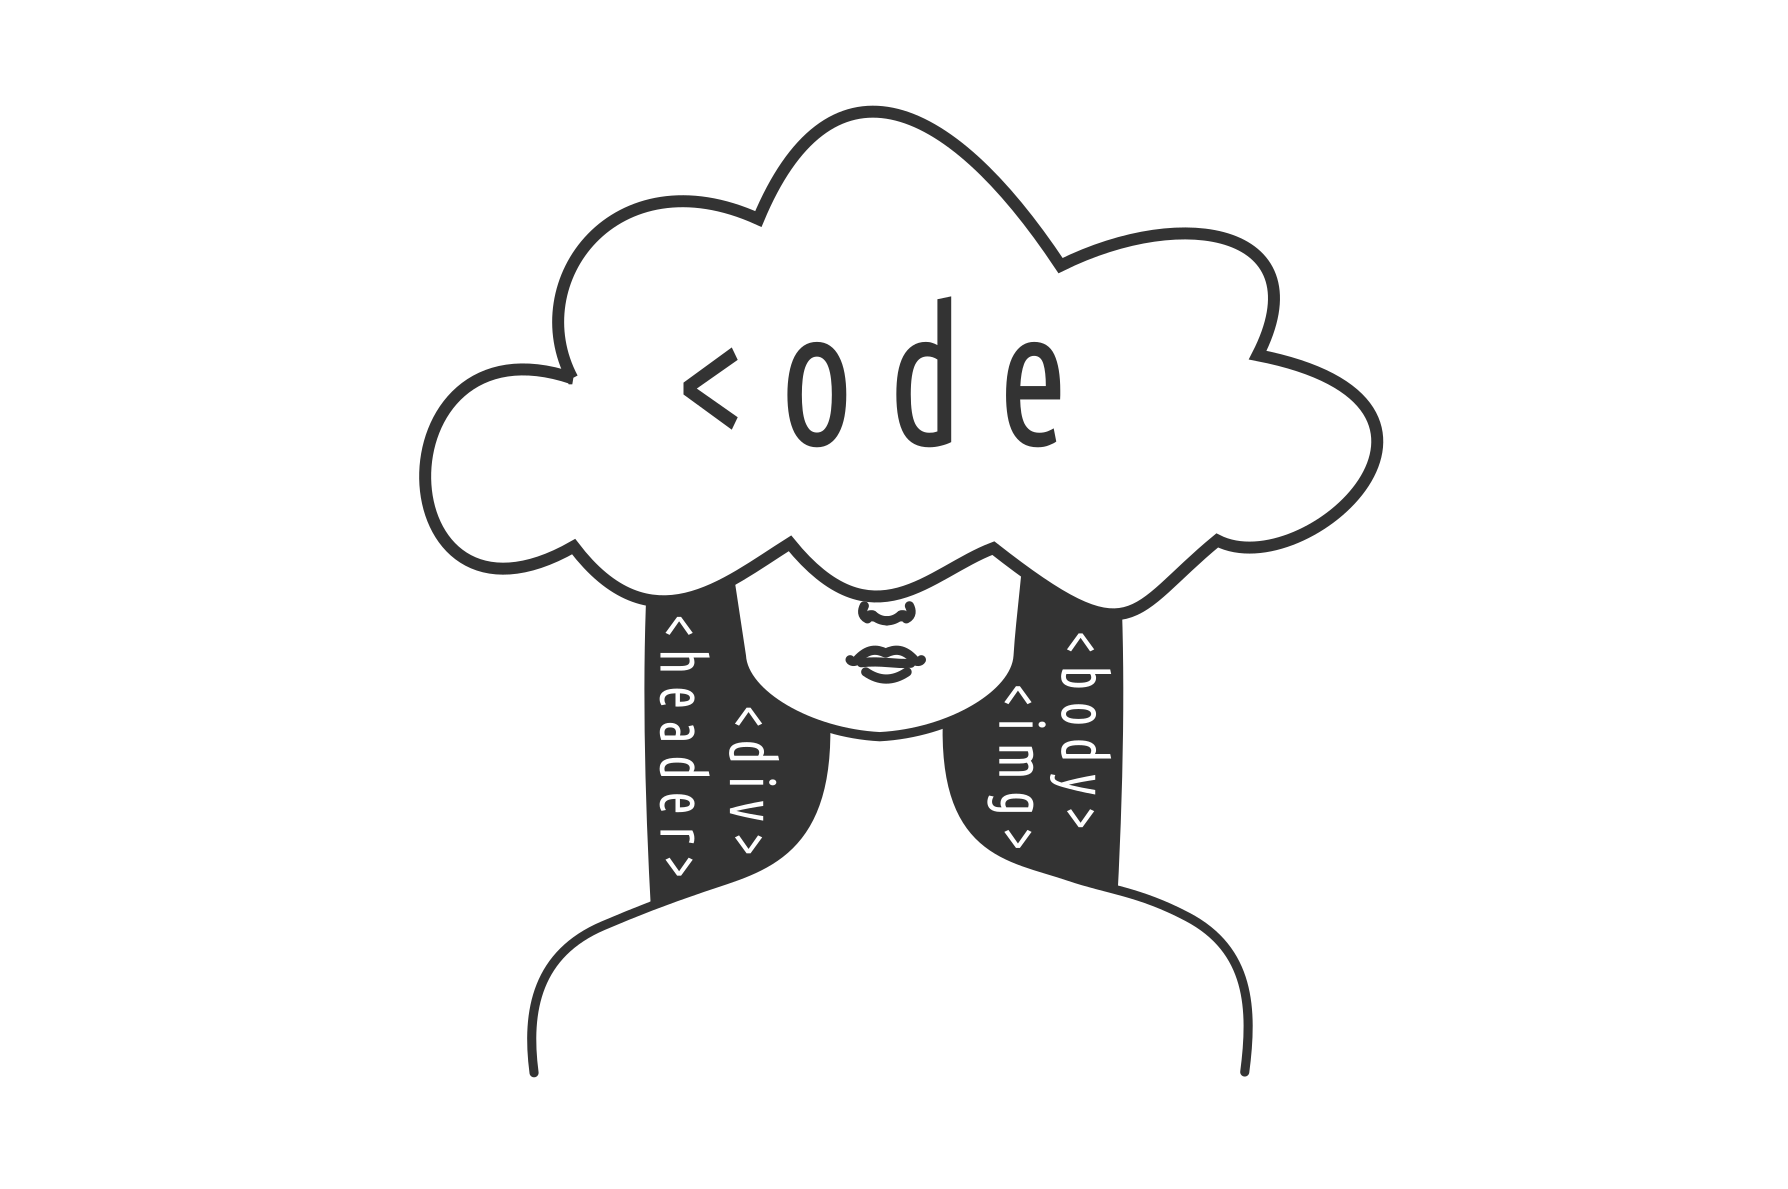
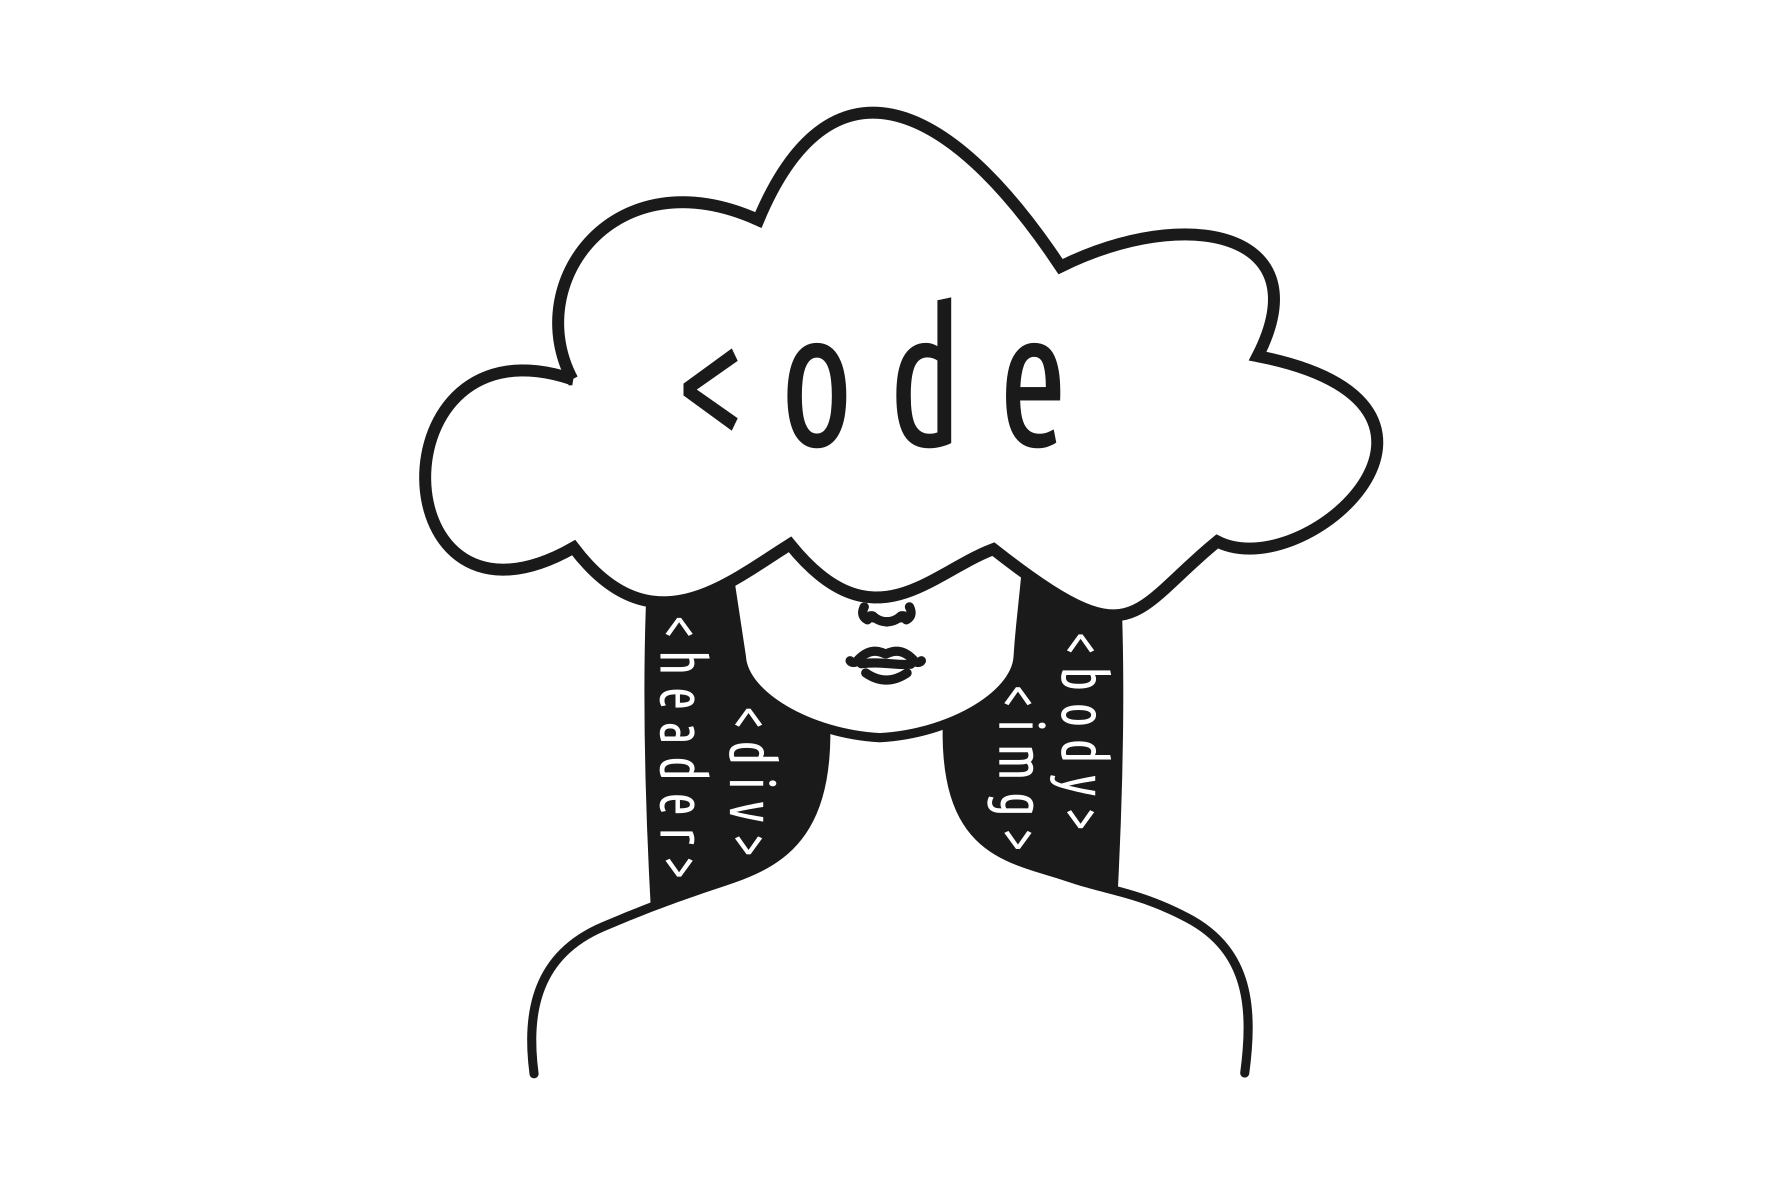
blog post

diff --git a/post1.html b/post1.html
@@ -22,7 +22,7 @@
 
             <div class="d-flex ml-4 mr-4 mt-4">
                 <div class="mr-auto bd-highlight">
-                    <p class="titlepost"><strong>28 Září</p></strong>
+                    <p class="titlepost"><strong>28-09-2020</p></strong>
                 </div>
     
                 <div class="bd-highlight">
@@ -47,7 +47,6 @@
                     V tabulce níže jsou uvedeny užitečné informace a
                     odkazy k absolvovaným kurzům.
                 </p>
-
             </div>
 
 
@@ -85,7 +84,7 @@
                         </tr>
                         <tr>
                             <th scope="row">Odkazy na <br> online kurzy</th>
-                            <td id="right">Aktuálně on-line <br> neprobíhá</td>
+                            <td id="right">Nyní neprobíhá <br> On-line</td>
                             <td id="right" ><a class="link"
                                     href="https://www.czechitas.cz/cs/blog/zaciname-s-it/online-kurz-uvod-do-html-css-1-lekce"><strong>On-line
                                     kurz</strong></a></td>
@@ -109,7 +108,10 @@
                         </tr>
                     </tbody>
                 </table>
-
+                <div class="text-left ml-4 mr-4 text-muted">
+                    <p class="mt-3"><em>Pozn: Na strktuře blogu se dále pracuje</em> 
+                    </p>
+                </div>
 
     </div>
 

diff --git a/post.css b/post.css
@@ -1,5 +1,6 @@
 @import url('https://fonts.googleapis.com/css2?family=Roboto:ital,wght@0,300;0,400;0,500;0,700;1,300;1,400;1,500;1,700&display=swap');
 @import url(https://fonts.googleapis.com/css?family=Open+Sans:400,800,700,600,300);
+@import url('https://fonts.googleapis.com/css2?family=Delius&display=swap');
 
 
 
@@ -17,9 +18,9 @@ body {
 }
 
 h4 {
-    font-size: 37px;
+    font-size: 45px;
     font-weight: 400;
-    font-family: "Roboto Slab", "Helvetica Neue", Helvetica, Arial, sans-serif;
+    font-family: 'Delius', cursive;
     text-transform: none;
     margin-bottom: 25px;
     margin-top: 25px;
@@ -84,9 +85,12 @@ h5 {
     font-family:'Open Sans', sans-serif;
     font-size: 22px;
     text-transform: uppercase;
+    font-family: 'Delius', cursive;
+
 
 
 }
+
 
 .imgprojekty {
     width: 100%;
@@ -104,17 +108,20 @@ h5 {
   table {
    max-width: 90%;
    margin: 0;
+   font-family: 'Delius', cursive;
   }
 
   th {
     /* background-color: #f1f1f1; */
-    color: rgb(51, 51, 51);
+    color: rgb(26, 26, 26);
+ 
 
   }
 
   .th1 {
-    color: rgb(51, 51, 51);
+    color: rgb(26, 26, 26);
     /* color:rgb(0, 114, 172); */
+  
 
   }
  
